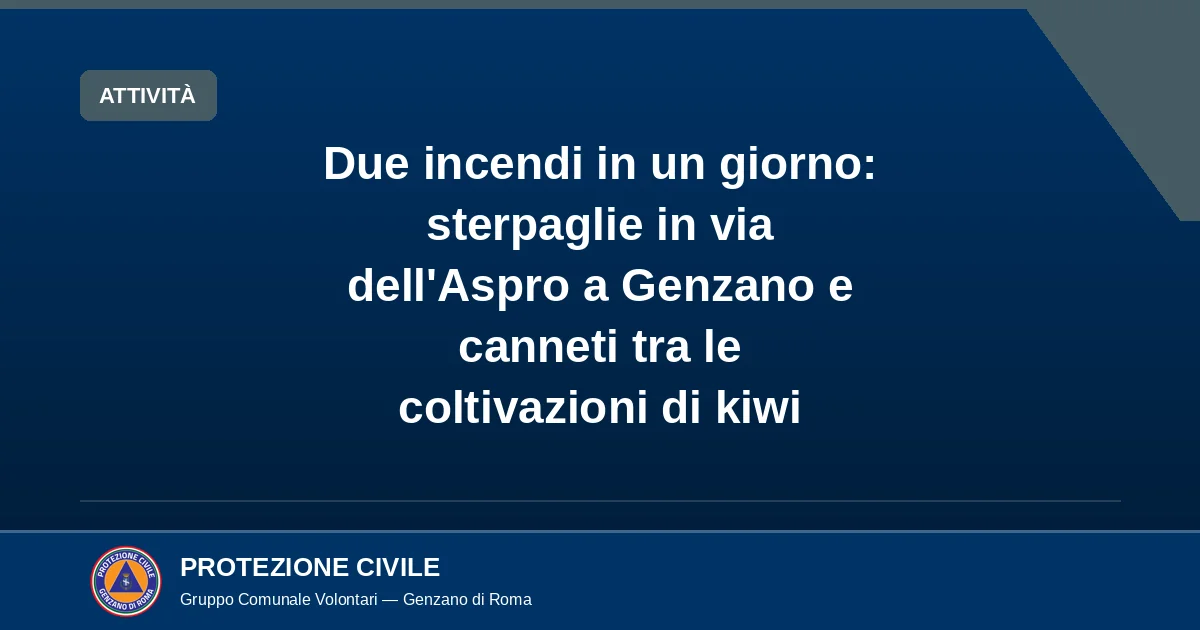
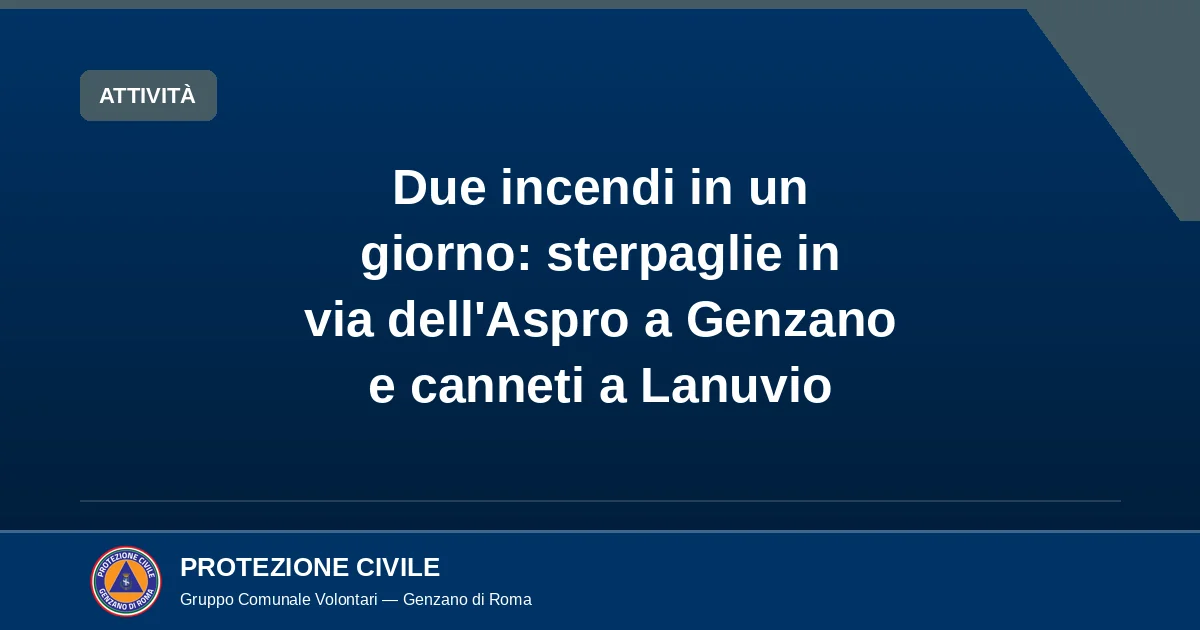
Fix articolo due incendi 15/07: localizzato a Lanuvio l'intervento del pomeriggio
- Titolo, description, area, social_punti e corpo aggiornati con Lanuvio
- Cover tipografica rigenerata col nuovo titolo

Claude-Session: https://claude.ai/code/session_01UfEiyVVVyshz9U1eLb28Dk

Changed region(s): [[0.2467, 0.2111, 0.74, 0.6937]]

diff --git a/content/comunicazioni/2026-07-15-due-incendi-via-aspro-canneti-kiwi.md b/content/comunicazioni/2026-07-15-due-incendi-via-aspro-canneti-kiwi.md
@@ -1,14 +1,14 @@
 ---
-title: "Due incendi in un giorno: sterpaglie in via dell'Aspro a Genzano e canneti tra le coltivazioni di kiwi"
+title: "Due incendi in un giorno: sterpaglie in via dell'Aspro a Genzano e canneti a Lanuvio"
 date: 2026-07-15T00:02:00+02:00
-description: "Due incendi in un giorno: la mattina il Defender 130 su sterpaglie in fiamme, il pomeriggio anche l'autobotte Actros a supporto dei Vigili del Fuoco."
+description: "La mattina il Defender 130 sulle sterpaglie di via dell'Aspro a Genzano; il pomeriggio anche l'autobotte Actros a Lanuvio, con i Vigili del Fuoco."
 badge: "Attività"
 priorita: "normale"
 autore: "Gruppo Comunale Volontari PC Genzano"
 image: "/images/2026-07-15-due-incendi-via-aspro-canneti-kiwi.webp"
-image_alt: "Cover dell'articolo: Due incendi in un giorno: sterpaglie in via dell'Aspro a Genzano e canneti tra le coltivazioni di kiwi"
+image_alt: "Cover dell'articolo: Due incendi in un giorno: sterpaglie in via dell'Aspro a Genzano e canneti a Lanuvio"
 scadenza: ""
-area: "Genzano di Roma"
+area: "Genzano di Roma e Lanuvio (RM)"
 allegati: []
 draft: false
 lis_section: "rischio-incendio"
@@ -16,11 +16,11 @@ social_citazione: "Le canne secche bruciano in fretta e con fiamme alte: il lavo
 social_punti:
   - "15 luglio 2026: due attivazioni per il Gruppo nella stessa giornata"
   - "Mattina: incendio di sterpaglie in via dell'Aspro a Genzano, un'ora e mezza di intervento con il Defender 130"
-  - "Pomeriggio: canneti in fiamme vicino a piantagioni di kiwi, oltre due ore e mezza a supporto dei Vigili del Fuoco"
+  - "Pomeriggio: canneti in fiamme a Lanuvio, vicino a piantagioni di kiwi: oltre due ore e mezza a supporto dei Vigili del Fuoco"
   - "Vedi fumo o fiamme? Chiama subito il 112"
 ---
 
-Mercoledì 15 luglio 2026 il nostro Gruppo è stato attivato **due volte nella stessa giornata** dalla **Sala Operativa regionale**, per due incendi di vegetazione distinti. La mattina le fiamme hanno interessato un terreno con sterpaglie in **via dell'Aspro, a Genzano di Roma**. Il pomeriggio la squadra è intervenuta su **diversi canneti a ridosso di piantagioni di kiwi**, a supporto dei **Vigili del Fuoco**. Siamo in piena [campagna antincendio boschivo](/comunicazioni/2026-06-14-campagna-aib-2026-adempimenti-operativi-regione-lazio/): il caldo e la vegetazione secca rendono il territorio vulnerabile.
+Mercoledì 15 luglio 2026 il nostro Gruppo è stato attivato **due volte nella stessa giornata** dalla **Sala Operativa regionale**, per due incendi di vegetazione distinti. La mattina le fiamme hanno interessato un terreno con sterpaglie in **via dell'Aspro, a Genzano di Roma**. Il pomeriggio la squadra è intervenuta **a Lanuvio**, su **diversi canneti a ridosso di piantagioni di kiwi**, a supporto dei **Vigili del Fuoco**. Siamo in piena [campagna antincendio boschivo](/comunicazioni/2026-06-14-campagna-aib-2026-adempimenti-operativi-regione-lazio/): il caldo e la vegetazione secca rendono il territorio vulnerabile.
 
 ## La mattina: sterpaglie in fiamme in via dell'Aspro
 
@@ -28,9 +28,9 @@ Su attivazione della Sala Operativa regionale, la squadra ha raggiunto **via del
 
 L'intervento è durato **circa un'ora e mezza**, tra spegnimento e bonifica finale. Nella bonifica si bagnano braci e ceneri finché il terreno non è freddo, per evitare che il fuoco riparta con il vento.
 
-## Il pomeriggio: canneti in fiamme vicino alle coltivazioni di kiwi
+## Il pomeriggio: canneti in fiamme a Lanuvio
 
-Nel pomeriggio la Sala Operativa ha attivato di nuovo il Gruppo. Questa volta la squadra si è mossa con **entrambi i mezzi antincendio**: il Defender 130 e l'**autobotte chilolitrica**, il **Mercedes Actros** con impianto antincendio da **14.000 litri**. L'autobotte garantisce la riserva d'acqua alle squadre impegnate nello spegnimento.
+Nel pomeriggio la Sala Operativa ha attivato di nuovo il Gruppo per un incendio **a Lanuvio**, nel comune confinante. Questa volta la squadra si è mossa con **entrambi i mezzi antincendio**: il Defender 130 e l'**autobotte chilolitrica**, il **Mercedes Actros** con impianto antincendio da **14.000 litri**. L'autobotte garantisce la riserva d'acqua alle squadre impegnate nello spegnimento.
 
 Sul posto i volontari si sono messi **a disposizione dei Vigili del Fuoco**, che dirigevano le operazioni. L'incendio interessava **diversi canneti** che lambivano numerose **piantagioni di kiwi**. Le canne secche bruciano in fretta e con fiamme alte: il lavoro delle squadre ha contribuito a proteggere le coltivazioni vicine. Le operazioni sono durate **oltre due ore e mezza**.
 
